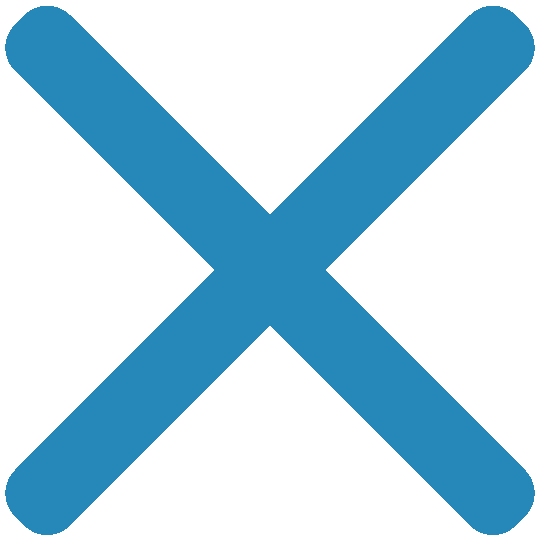
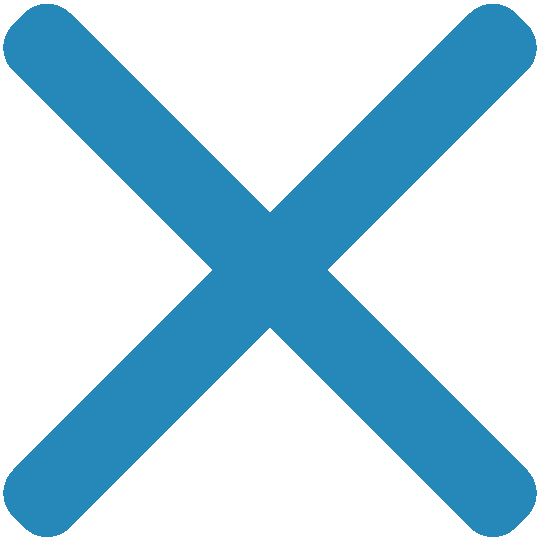
Reset button

diff --git a/main.js b/main.js
@@ -12,7 +12,7 @@ class Header extends React.Component {
     }
 }
 
-class Board extends React.Component {
+class Game extends React.Component {
     constructor(props) {
         super(props);
         this.state = {
@@ -27,10 +27,12 @@ class Board extends React.Component {
     handleClick(index) {
         let newSquares = [...this.state.squares];
 
-        if (gameState(newSquares) == 'X' || gameState(newSquares) == 'O' || newSquares[index]) {
+        // Anti-click when the square is marked OR the game is finished
+        if (gameState(newSquares) == 'X' || gameState(newSquares) == 'O' || gameState(newSquares) == 'D' || newSquares[index]) {
             return;
         }
 
+        // Set new Squares
         newSquares[index] = this.state.xTurn ? 'X' : 'O';
         this.setState({
             squares : newSquares,
@@ -39,28 +41,44 @@ class Board extends React.Component {
 
         // Update score
         if (gameState(newSquares) == 'X') {
-
-            // #d VIET THỬ MODAL TẠI ĐÂY, APPEND CÁI MODAL ĐÓ VÀO BOARD
-            // #D RESET GAME THỬ BẰNG CÁCH SET ALL this.state.squares về null
-
-
-
-            // #d Phần này sẽ tách ra viết 1 hàm riêng là Update game
-            // #d Trong đó sẽ chạy hàm riêng là Reset game
-            // #d Hàm Resetgame sẽ là 1 cái modal hiện ở giữa cái Board và khi bấm vào sẽ set all to null
             this.setState({
                 score1 : this.state.score1 + 1,
                 xGoFirst : true,
+                xTurn : true,
             });
         } else if (gameState(newSquares) == 'O') {
             this.setState({
                 score2 : this.state.score2 + 1,
                 xGoFirst : false,
+                xTurn : false,
+            });
+        } else if (gameState(newSquares) == 'D') {
+            this.setState({
+                score1 : this.state.score1 + 1,
+                score2 : this.state.score2 + 1,
+                xTurn : this.state.xGoFirst,
             });
         }
     }
+    
+    resetGame() {
+        // Set the squares in state to null
+        let resetSquare = Array(9).fill(null);
+        this.setState({
+            squares : resetSquare,
+        });
+
+        // Change squares to normal color and hide the Reset button
+        let squareCollection = document.getElementsByClassName('square');
+        for (let i = 0; i < 9; i++) {
+            squareCollection[i].style.backgroundColor = "transparent";
+        }
+        let resetBtn = document.querySelector('#footer');
+        resetBtn.style.display = "none";
+    }
 
     render() {
+        // Set Status bar
         let gameStatus = gameState(this.state.squares, this.state.xGoFirst);
         let status;
         if (gameStatus) {
@@ -77,6 +95,9 @@ class Board extends React.Component {
                 case 'O':
                     status = 'O win';
                     break;
+                case 'D':
+                    status = 'Draw';
+                    break;
                 default:
                     console.error("Game status error");
                     break;
@@ -84,8 +105,7 @@ class Board extends React.Component {
         } else {
             status = (this.state.xTurn ? 'X' : 'O') + "'s turn";
         }
-        // console.log(this.state)
-        
+
         return (
             <React.Fragment>
                 <div className="row no-gutters">
@@ -117,6 +137,16 @@ class Board extends React.Component {
                         <p id="score2">{this.state.score2}</p>
                     </div>
                 </div>
+
+                <div className="row no-gutters">
+                    <div id="footer" className="col">
+                        <button 
+                            className="button reset"
+                            onClick={()=>{this.resetGame()}}>
+                            <img src="./assets/image/reset.png" alt=""/>
+                        </button>
+                    </div>
+                </div>
             </React.Fragment>
         )
     }
@@ -144,24 +174,11 @@ function imgXO(value) {
     )
 }
 
-class Footer extends React.Component {
-    render() {
-        return (
-            <div className="row no-gutters">
-                <div id="footer" className="col">
-                    <h1>THIS IS FOOTER</h1>
-                </div>
-            </div>
-        )
-    }
-}
-
 
 const App = (
     <React.Fragment>
         <Header/>
-        <Board/>
-        {/* <Footer/> */}
+        <Game/>
     </React.Fragment>
 )
 
@@ -213,6 +230,9 @@ function gameState(squares, xGoFirst) {
             squareA.style.backgroundColor = "#123c53";
             squareB.style.backgroundColor = "#123c53";
             squareC.style.backgroundColor = "#123c53";
+
+            let resetBtn = document.querySelector('#footer');
+            resetBtn.style.display = "flex";
         }
     })
     
@@ -222,6 +242,9 @@ function gameState(squares, xGoFirst) {
         })
         if (!notFull) {
             result = 'D';
+
+            let resetBtn = document.querySelector('#footer');
+            resetBtn.style.display = "flex";
         }
     }
 
@@ -233,9 +256,7 @@ function gameState(squares, xGoFirst) {
 // Fix UI :
 ////    Background, Theme
 ////    Player score 
-//    - Modal result
+////    Modal result
 //    - Responsive
-
-// todo 3. Change color the win line
-// todo 5. Local storage score
+////    Change color the win line
 

diff --git a/index.html b/index.html
@@ -9,10 +9,6 @@
         <link rel="stylesheet" href="./assets/css/grid.css">
         <link rel="stylesheet" href="./assets/css/main.css">
 
-        <link rel="preconnect" href="https://fonts.googleapis.com">
-        <link rel="preconnect" href="https://fonts.gstatic.com" crossorigin>
-        <link href="https://fonts.googleapis.com/css2?family=Permanent+Marker&display=swap" rel="stylesheet">
-
         <script src="https://unpkg.com/react@18/umd/react.development.js" crossorigin></script>
         <script src="https://unpkg.com/react-dom@18/umd/react-dom.development.js" crossorigin></script>
         <script src="https://unpkg.com/babel-standalone@6/babel.min.js"></script>
@@ -102,13 +98,15 @@
             <!-- #l ---------- end Board ------------ -->
 
             
-            <!-- #d ------------ Footer -------------- -->
+            <!-- #d ------------ Reset -------------- -->
             <!-- <div class="row no-gutters">
                 <div id="footer" class="col">
-                    <h1>THIS IS FOOTER</h1>
+                    <button class="button reset">
+                        <img src="./assets/image/reset.png" alt="">
+                    </button>
                 </div>
             </div> -->
-            <!-- #l ---------- end Footer ------------ -->
+            <!-- #l ---------- end Reset ------------ -->
 
 
         </div>

diff --git a/assets/css/main.css b/assets/css/main.css
@@ -10,7 +10,7 @@
     width: 100%;
     height: var(--header-height);
     text-align: center;
-    margin-bottom: 10px;
+    margin-bottom: 8px;
     align-items: center;
     align-content: center;
     position: relative;
@@ -28,7 +28,7 @@
 #status {
     display: flex;
     margin: 0 auto;
-    margin-bottom: 20px;
+    margin-bottom: 10px;
     font-size: var(--status-size);
     color: var(--header-color);
 }
@@ -124,7 +124,7 @@
 }
 
 .square .X {
-    width: 66px;
+    width: 68px;
     cursor: pointer;
 }
 .square .O {
@@ -136,8 +136,22 @@
 
 /* #d ------------ Footer -------------- */
 #footer {
-    background-color: rgb(228, 228, 228);
+    display: none;
     width: 100%;
-    text-align: center;
+    height: var(--footer-height);
+    align-items: center;
+    justify-content: center;
+}
+#footer .reset {
+    width: var(--footer-height);
+    height: var(--footer-height);
+    border: none;
+    border-radius: 30px;
+    background-color: transparent;
+}
+#footer .reset img {
+    width: 100%;
+    height: 100%;
+    cursor: pointer;
 }
 /* #l ------------ Footer -------------- */

diff --git a/assets/css/base.css b/assets/css/base.css
@@ -7,17 +7,20 @@
     --player1-color : #2588B8;
     --player2-color : #fff;
     --hover-color : #a0cee6;
+    --reset-color : #123c53;
     
 
     /* #d ---------- SIZE ---------- */
-    --header-height : 80px;
+    --header-height : 66px;
 
-    --square-width : 125px;
+    --square-width : 120px;
     --board-width : calc(var(--square-width) * 3);
     --inner-border : 4px;
     --outer-border : 8px;
-    --player-width : 200px;
-    --player-height : 200px;
+    --player-width : 190px;
+    --player-height : 190px;
+
+    --footer-height : 80px;
     
     /* #d ---------- FONT ---------- */
     --header-size : 56px;
